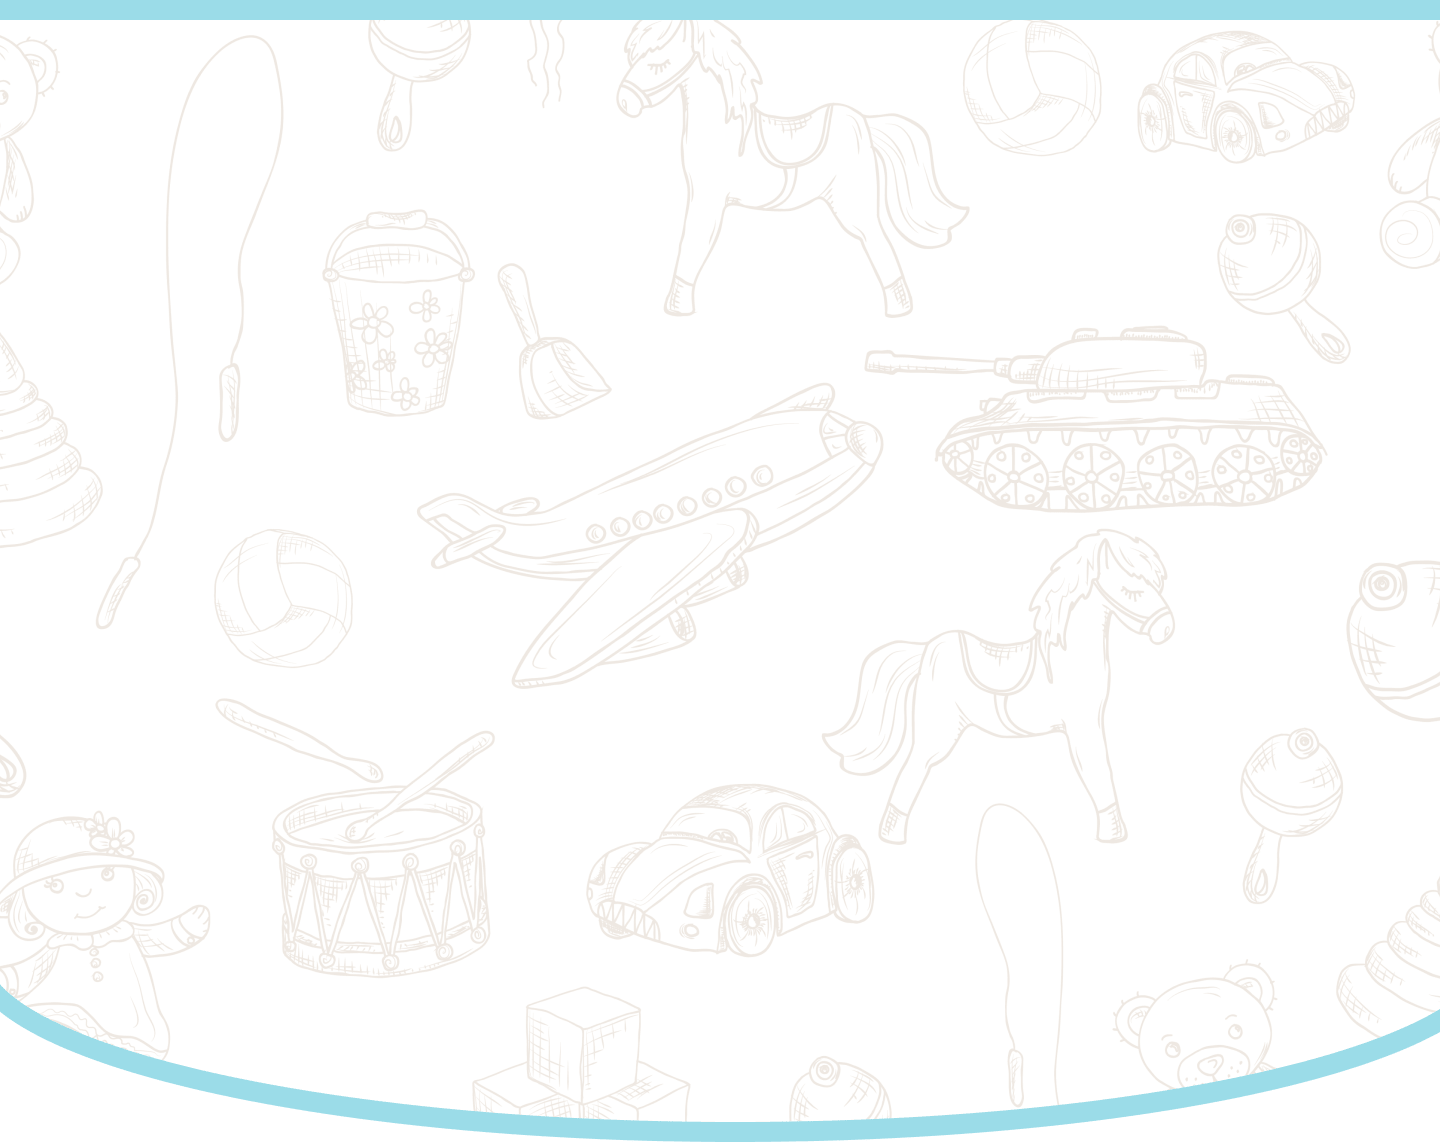
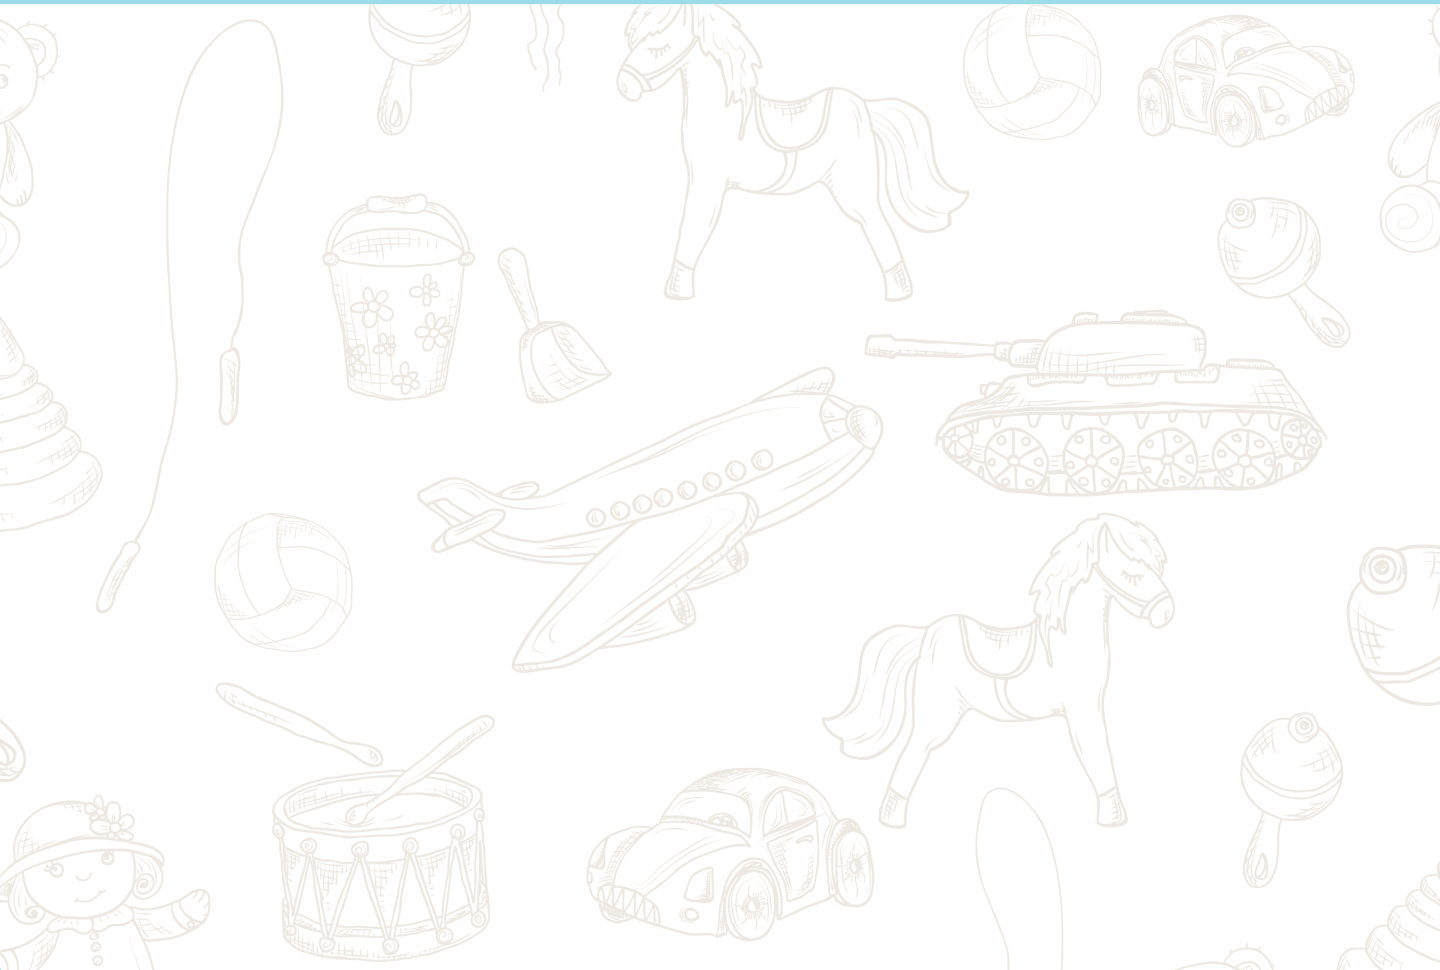
slide4

diff --git a/index.html b/index.html
@@ -86,7 +86,7 @@
             </div>
             <div class="row w-100 slide3__slider justify-content-center">
                 <div class="col-lg-1 col-md-1 col-sm-1">
-                    <div class="left-arrow"></div>
+                    <div class="slider__left-arrow"></div>
                 </div>
                 <div class="col-lg-10 col-md-10 slider col-sm-10 col-10">
                         <img src="images/children-1.png" alt="" class="slider-slide">
@@ -94,7 +94,7 @@
                         <img src="images/children-3.png" alt="" class="slider-slide">
                 </div>
                 <div class="col-lg-1 col-md-1 col-sm-1 col-1">
-                    <div class="right-arrow"></div>
+                    <div class="slider__right-arrow"></div>
                 </div>
             </div>
             <div class="row w-100 slide3__extra-header align-items-center justify-content-center">
@@ -105,7 +105,7 @@
                     <p class="extra__text">Микки находит лишнее (Собака, лось, бобер, олень):<br/>- Собака. Ну, потому что она маленькая, никак не лошадь.</p>
                 </div>
                 <div class="col-lg-4 offset-lg-1 col-md-4 offset-md-1 col-sm-12">
-                    <p class="extra__text">Олежка возмущенно:<br/>- Дайте мне большую сосульку, хочу большую!<br/>- Но у тебя же уже есть в руках.<br/>-Нет, она маленькая! Я сам маленький и сосулька маленькая, а надо я сам маленький, а сосулька большая.</p>
+                    <p class="extra__text">Олежка возмущенно:<br/>- Дайте мне большую сосульку, хочу большую!<br/>- Но у тебя же уже есть в руках.<br/>- Нет, она маленькая! Я сам маленький и сосулька маленькая, а надо я сам маленький, а сосулька большая.</p>
                 </div>
                 <div class="col-lg-3 offset-lg-1 col-md-3 offset-md-1 col-sm-12">
                     <p class="extra__text">Яша играет со словами:<br/>Карандашатник – пенал<br/>Всадник – ребенок ходит в сад.</p>
@@ -120,7 +120,46 @@
         </div>
     </div>
 </div>
+<div class="slide slide4 align-items-center">
+    <div class="container">
+        <div class="row">
+            <div class="row w-100 slide4__header align-items-center justify-content-center">
+                <h3 class="header header_pink">Наши педагоги</h3>
+            </div>
+                <div class="row w-100 slide4__cards justify-content-center">
+                    <div class="col-lg-1 col-md-1 col-sm-1">
+                        <div class="cards__left-arrow"></div>
+                    </div>
+                    <div class="col-lg-10 col-md-10 col-sm-10 col-12 cards">
+                        <div class="card">
+                            <img src="https://pyxis.nymag.com/v1/imgs/3d3/8e6/c2b13f836c6c80304a61ba55c4abd87578-jaden-smith.rsquare.w1200.jpg" alt="" class="card__image">
+                            <p class="card__name">Jaden Smith</p>
+                            <p class="card__description">основатель и директор Монтессори Клуба «Розовая башня». Мама взрослого сына. Принимает самое активное участие в жизни наших детей.<br/><br/>Образование:<br/>• Тверской государственный университет.<br/>• Филологический факультет.<br/>• Филолог ( теоретическая и прикладная лингвистика)</p>
+                        </div>
+                        <div class="card">
+                            <img src="https://www.vagalume.com.br/jaden-smith/images/jaden-smith.jpg" alt="" class="card__image">
+                            <p class="card__name">Jaden Smith</p>
+                            <p class="card__description">«Самые лучшие уроки, самые яркие праздники, самые удачные педагогические находки – всё в моей профессиональной жизни состоялось только благодаря детям»<br/><br/>Образование:<br/>• Монтессори-педагог;<br/>• Академия повышения квалификации и переподготовки работников образования.</p>
+                        </div>
+                        <div class="card">
+                            <img src="https://www.essence.com/wp-content/uploads/2018/10/Jaden-Smith-e1539112948755-1024x1021.jpg" alt="" class="card__image">
+                            <p class="card__name">Jaden Smith</p>
+                            <p class="card__description">Елена работает с нами с первого года открытия и всегда остается верна своему делу, которое делает исключительно хорошо, чем неустанно радует нас.<br/><br/>Образование:<br/>• Монтессори-педагог;<br/>• Академия повышения квалификации и переподготовки работников образования.</p>
+                        </div>
+                        <div class="card">
+                            <img src="https://cdn.i-scmp.com/sites/default/files/styles/768x768/public/d8/images/methode/2019/07/11/812f59a6-a393-11e9-9a3c-98259c87fba2_image_hires_152514.jpg?itok=GBTkU_WI&v=1562829918" alt="" class="card__image">
+                            <p class="card__name">Jaden Smith</p>
+                            <p class="card__description">У нашей Алины совершенно золотые руки, она с поразительной легкостью создает настоящие шедевры и успешно учит этому наших малышей.<br/><br/>Образование:<br/>• Московский гуманитарный педагогический институт, методист-организатор;<br/>• Установочный курс в Международном Институте Монтессори-Педагогики.</p>
+                        </div>
+                    </div>
+                    <div class="col-lg-1 col-md-1 col-sm-1">
+                        <div class="cards__right-arrow"></div>
+                    </div>
+                </div>
 
+        </div>
+    </div>
+</div>
 </body>
 <script src="scripts/jquery.js"></script>
 <script src="https://maxcdn.bootstrapcdn.com/bootstrap/3.4.1/js/bootstrap.min.js"></script>

diff --git a/css/main.css b/css/main.css
@@ -216,29 +216,41 @@ body {
     object-fit: contain;
 }
 
-.left-arrow,
-.right-arrow {
+.slider__left-arrow,
+.slider__right-arrow,
+.cards__right-arrow,
+.cards__left-arrow {
     width: 0;
     height: 0;
     border-top: 20px solid transparent;
     border-bottom: 20px solid transparent;
     cursor: pointer;
     z-index: 20;
+    border-radius: 5px;
 }
 
-.left-arrow {
+.slider__left-arrow {
     border-right: 30px solid #FFFFFF;
 }
 
-.right-arrow {
+.slider__right-arrow {
     border-left: 30px solid #FFFFFF;
+}
+
+.cards__left-arrow {
+    border-right: 30px solid #FEB6B9;
+}
+
+.cards__right-arrow {
+    border-left: 30px solid #FEB6B9;
 }
 
 .slick-initialized .slick-slide {
     outline: 0;
 }
 
-.slide3__slider .col-lg-1 {
+.slide3__slider .col-lg-1,
+.slide4__cards .col-lg-1 {
     display: flex;
     justify-content: center;
     align-items: center;
@@ -250,11 +262,12 @@ body {
     font-size: 18px;
     line-height: 21px;
     text-align: center;
-    color: #FFFFFF;
+    color: #C9EBF1;
 }
 
 .slide3__pictures {
     position: absolute;
+    z-index: 15;
 }
 
 .slide3__pictures_left {
@@ -265,6 +278,62 @@ body {
 .slide3__pictures_right {
     right: 0;
     top: 0;
+}
+
+.slide4 {
+    background-image: url('../images/background-4.png');
+    background-size: cover;
+    background-repeat: no-repeat;
+    border-radius: 0 0 40% 40%;
+    border: 5px solid #9bdce8;
+    display: flex;
+    height: 130vh;
+}
+
+.slide4__header {
+    margin: 40px 0;
+}
+
+.slide4__cards {
+    margin-bottom: 20px;
+}
+
+.card {
+    padding: 40px 20px;
+    box-shadow: 0 0 8px 0px rgba(0,0,0,0.23);
+    border-radius: 35px;
+    background: #FFFFFF;
+    display: flex !important;
+    justify-content: flex-start;
+    align-items: center;
+    flex-direction: column;
+    margin: 10px;
+    height: 480px;
+}
+
+.card__image {
+    width: 148px;
+    height: 148px;
+    border-radius: 50%;
+    object-fit: contain;
+}
+
+.card__name {
+    font-family: 'Rubik', sans-serif;
+    font-weight: 700;
+    font-size: 18px;
+    line-height: 21px;
+    color: #404040;
+    text-align: center;
+}
+
+.card__description {
+    font-family: 'Rubik', sans-serif;
+    font-weight: 700;
+    font-size: 14px;
+    line-height: 17px;
+    text-align: center;
+    color: #8E8E8E;
 }
 
 @media (max-width: 1200px) {
@@ -474,7 +543,9 @@ body {
         filter: blur(4px);
     }
 
-    .left-arrow {
+    .slider__left-arrow,
+    .cards__left-arrow,
+    .cards__right-arrow {
         display: none !important;
     }
 
@@ -488,9 +559,41 @@ body {
         left: -5px;
     }
 
+    .slide4 {
+        border-radius: 0 0 30% 30%;
+    }
 
+    .slide4 .container .row {
+        align-items: center;
+        justify-content: center;
+    }
+
+    .slide4__cards {
+        margin-bottom: 50px;
+    }
+
+    .card__description {
+        font-size: 13px;
+    }
+
+    .card {
+        padding: 20px 4px;
+    }
 }
 
 @media (max-width: 320px) {
 
+}
+
+
+@media (max-width: 900px) and (min-width: 600px) and (max-height: 600px) and (min-height: 400px) {
+    .slide {
+        height: 200vh;
+    }
+}
+
+@media (max-width: 700px) and (min-width: 600px) and (max-height: 400px) and (min-height: 200px) {
+    .slide {
+        height: 250vh;
+    }
 }

diff --git a/scripts/script.js b/scripts/script.js
@@ -47,16 +47,45 @@ $(document).ready(function () {
         slidesToShow: 1,
         slidesToScroll: 1,
         speed: 700,
-        prevArrow: $('.left-arrow'),
-        nextArrow: $('.right-arrow'),
+        prevArrow: $('.slider__left-arrow'),
+        nextArrow: $('.slider__right-arrow'),
         responsive: [
             {
-                breakpoint: 575,
+                breakpoint: 576,
                 settings: {
                     slidesToShow: 1,
                     infinite: true,
                 }
             }],
     })
+
+    $('.cards').slick({
+        slidesToShow: 3,
+        slidesToScroll: 1,
+        speed: 700,
+        prevArrow: $('.cards__left-arrow'),
+        nextArrow: $('.cards__right-arrow'),
+        responsive: [
+            {
+                breakpoint: 1200,
+                settings: {
+                    slidesToShow: 2,
+                }
+            },
+        {
+            breakpoint: 768,
+            settings: {
+                slidesToShow: 1,
+            }
+        },
+            {
+                breakpoint: 576,
+                settings: {
+                    slidesToShow: 1,
+                    autoplay: true,
+                    autoplaySpeed: 2000,
+                }
+            }]
+    });
 
 })
